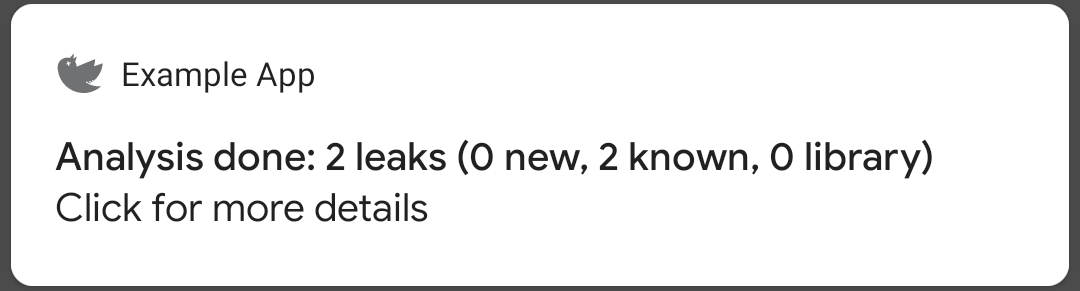
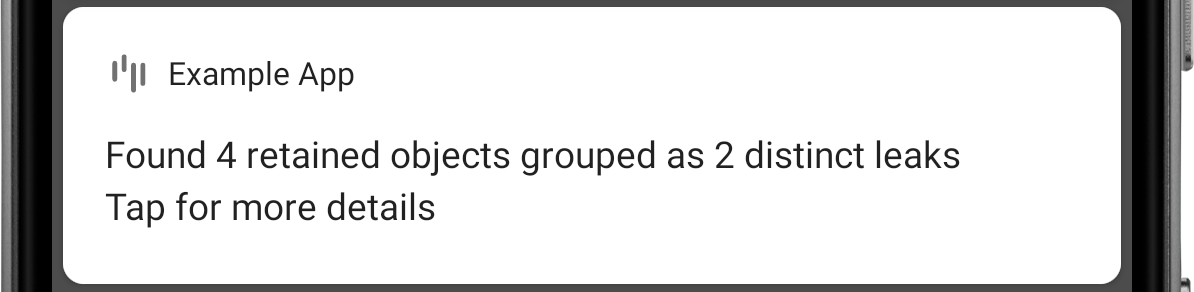
Updated result notification (#1688)
Now displayed the count of retained objects and distinct leaks

Fixes #1686

Changed region(s): [[0.0, 0.0, 1.0, 1.0]]

diff --git a/leakcanary-android-core/src/main/java/leakcanary/DefaultOnHeapAnalyzedListener.kt b/leakcanary-android-core/src/main/java/leakcanary/DefaultOnHeapAnalyzedListener.kt
@@ -10,8 +10,8 @@ import leakcanary.internal.activity.db.HeapAnalysisTable
 import leakcanary.internal.activity.db.LeakTable
 import leakcanary.internal.activity.db.LeaksDbHelper
 import leakcanary.internal.activity.screen.HeapAnalysisFailureScreen
-import leakcanary.internal.activity.screen.HeapDumpsScreen
 import leakcanary.internal.activity.screen.HeapDumpScreen
+import leakcanary.internal.activity.screen.HeapDumpsScreen
 import shark.HeapAnalysis
 import shark.HeapAnalysisFailure
 import shark.HeapAnalysisSuccess
@@ -37,23 +37,10 @@ class DefaultOnHeapAnalyzedListener(private val application: Application) : OnHe
           R.string.leak_canary_analysis_failed
       ) to HeapAnalysisFailureScreen(id)
       is HeapAnalysisSuccess -> {
-        var leakCount = 0
-        var newLeakCount = 0
-        var knownLeakCount = 0
-        var libraryLeakCount = 0
-
-        for ((_, projection) in groupProjections) {
-          leakCount += projection.leakCount
-          when {
-            projection.isLibraryLeak -> libraryLeakCount += projection.leakCount
-            projection.isNew -> newLeakCount += projection.leakCount
-            else -> knownLeakCount += projection.leakCount
-          }
-        }
-
+        val retainedObjectCount = groupProjections.values.sumBy { it.leakCount }
+        val leakTypeCount = groupProjections.size
         application.getString(
-            R.string.leak_canary_analysis_success_notification, leakCount, newLeakCount,
-            knownLeakCount, libraryLeakCount
+            R.string.leak_canary_analysis_success_notification, retainedObjectCount, leakTypeCount
         ) to HeapDumpScreen(id)
       }
     }
